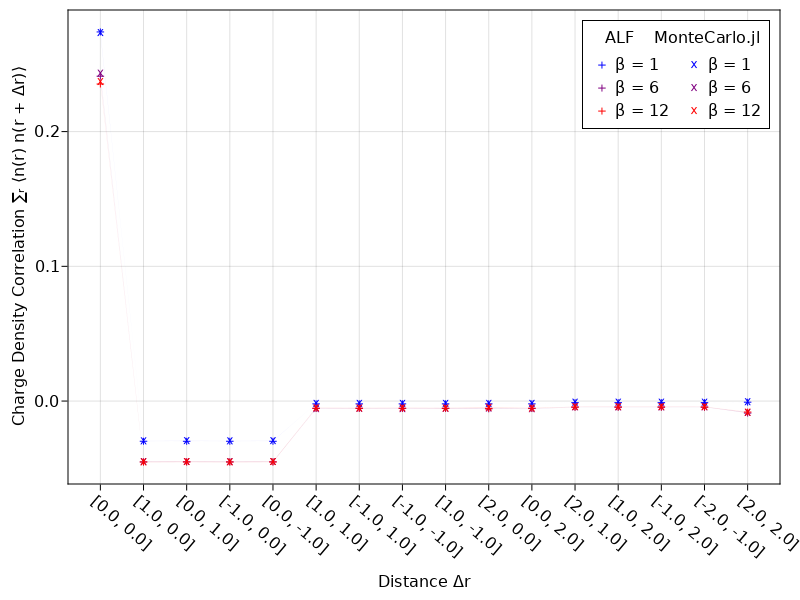
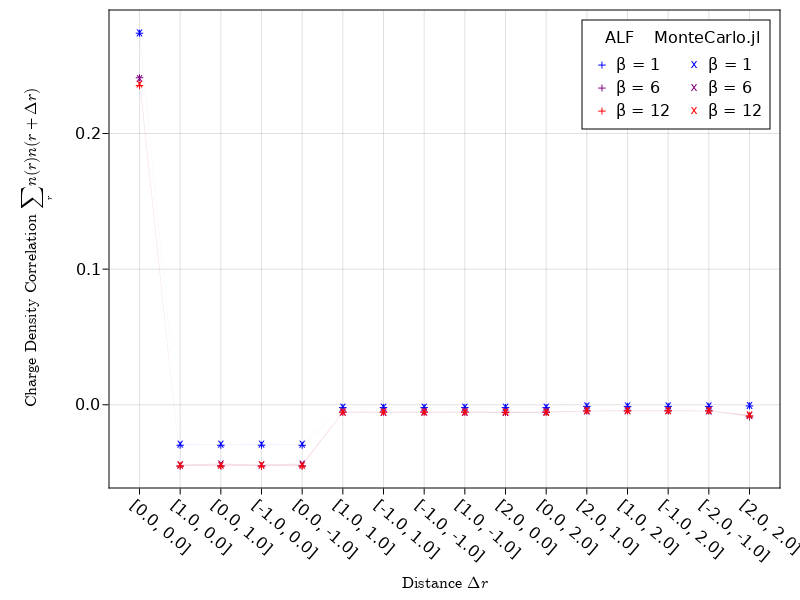
Fix ALF comparison (#151)
* fix model

* remove coment

diff --git a/docs/src/examples/ALF1.md b/docs/src/examples/ALF1.md
@@ -1,6 +1,6 @@
 # Crosscheck with ALF
 
-The [ALF project](https://git.physik.uni-wuerzburg.de/ALF) (Algorithms for lattice fermions) is a long running project implementing DQMC in Fortran. They have implemented varies different models, lattices, stabilization methods and measurements. A relatively simple comparison for us will be the "plain vanilla Hubbard model" on a square lattice, which is close to but not exactly the same as our attractive Hubbard model.
+The [ALF project](https://git.physik.uni-wuerzburg.de/ALF) (Algorithms for lattice fermions) is a long running project implementing DQMC in Fortran. They have implemented various different models, lattices, stabilization methods and measurements. A relatively simple comparison for us will be the "plain vanilla Hubbard model" on a square lattice, which is close to but not exactly the same as our repulsive Hubbard model.
 
 
 
@@ -10,7 +10,7 @@ The [ALF project](https://git.physik.uni-wuerzburg.de/ALF) (Algorithms for latti
 
 ### Installation
 
-The ALF project provides a [python interface](https://git.physik.uni-wuerzburg.de/ALF/pyALF) which we used for simplicity. For installation instructions, see the link. At the time of writing pyALF is linked to ALF 2.0.
+The ALF project provides a [python interface](https://git.physik.uni-wuerzburg.de/ALF/pyALF) which we used for simplicity. For installation instructions see the link. At the time of writing pyALF is linked to ALF 2.0. (Specifically commit 82949f66065eff8214c0149c8be2d10d6d0a6822.)
 
 !!! note 
 
@@ -67,11 +67,11 @@ for i, sim in enumerate(sims):
     sim.analysis()
 ```
 
-Let's briefly go over some of the options picked here. The noteworthy option is `Symm`. With it you can switch between a symmetric (True) and antisymmetric (False) Trotter decomposition. In MonteCarlo.jl we use the symmetric version so we should do so here too. Next we have `Ltau`. As mentioned in the comment this controls whether time displaced greens function are calculated, and by extension whether time displaced observables (susceptibilties) are calculated. We want to compare as much as possible so we set `Ltau = 1`. 
+Let's briefly go over some of the options picked here. One noteworthy option is `Symm`. With it you can switch between a symmetric (True) and antisymmetric (False) Trotter decomposition. In MonteCarlo.jl we use the symmetric version so we should do so here too. Next we have `Ltau`. As mentioned in the comment this controls whether time displaced greens function are calculated, and by extension whether time displaced observables (susceptibilties) are calculated. We want to compare as much as possible so we set `Ltau = 1`. 
 
-And finally we have the combination of `NSweep`, `N_skip` and `NBin`. `NSweep` is the number of sweeps in a block, which is usually followed by a measurement. `NBin` sets how many of those blocks are executed and `N_skip` disables measurements for some of blocks at the start. Thus we have the relations `thermalization = NSweep * N_skip`, `sweeps = NSweep * (NBin - N_skip)` and `measure_rate = NSweep`. 
+And finally we have the combination of `NSweep`, `N_skip` and `NBin`. `NSweep` is the number of sweeps in a block, which is usually followed by a measurement. `NBin` sets how many of those blocks are executed and `N_skip` disables measurements for some number of blocks at the start. Thus we have the relations `thermalization = NSweep * N_skip`, `sweeps = NSweep * (NBin - N_skip)` and `measure_rate = NSweep`. 
 
-Regarding the choices for `NSweep`, `N_skip` and `NBin` it is also important to discuss the model ALF implements and how it is implemented. As mentioned before it is not quite the same as the attractive Hubbard model from DQMC. ALF implements
+Regarding the choices for `NSweep`, `N_skip` and `NBin` it is also important to discuss the model ALF implements and how it is implemented. As mentioned before it is not quite the same as the repulsive Hubbard model from DQMC. ALF implements
 
 ```math
 \mathcal{H}=
@@ -82,9 +82,7 @@ Regarding the choices for `NSweep`, `N_skip` and `NBin` it is also important to 
 -  \mu \sum_{{i},\sigma } \hat{c}^{\dagger}_{{i}, \sigma}  \hat{c}^{\phantom\dagger}_{{i},\sigma}. 
 ```
 
-which features a quadratic interaction rather than the $\sim (n_\uparrow - 0.5)(n_\downarrow - 0.5)$ term used in MonteCarlo.jl. If we apply a Hirsch transformation (like in MonteCarlo.jl) to both of these interactions, we end up with the same expression. Thus they would be the same from the simulations point of view. However ALF uses a different, more precise transformation based on Gauß-Hermite quadrature, resulting in different auxiliary field values ($\pm 1$ and $\pm 2$ rather than just $\pm 1$) with different weights.
-
-It is not clear, a priori, whether and which observables will match. We will se in the results that many match close to perfectly but not all. Another consequence of the different transformation is that ALF is slower per sweep, but can reach a target precision at a much larger $\Delta\tau$ and potentially less sweeps. 
+which features a quadratic interaction rather than the $\sim (n_\uparrow - 0.5)(n_\downarrow - 0.5)$ term used in MonteCarlo.jl. If we apply a Hirsch transformation (like in MonteCarlo.jl) to both of these interactions, we end up with the same expression. Thus they would be the same from the simulations point of view. However ALF uses a different, (potentially) more precise transformation based on Gauß-Hermite quadrature. Thus some small differences are to be expected.
 
 For more information on the Hamiltonian and transformation used by ALF see the [ALF documentation](https://git.physik.uni-wuerzburg.de/ALF/ALF/-/blob/master/Documentation/doc.png)
 
@@ -101,49 +99,66 @@ using Revise, MonteCarlo, Printf, LinearAlgebra
 
 mcs = []
 @time for beta in [1.0, 6.0, 12.0]
-    m = HubbardModelAttractive(4, 2, U = 4, mu = 0)
+    m = HubbardModelRepulsive(4, 2, U = 4)
     mc = DQMC(
-        m, beta=beta, thermalization=10_000, sweeps=50_000, 
-        print_rate=10_000, delta_tau = 0.1#, measure_rate=5
+        m, beta=beta, thermalization=5_000, sweeps=15_000, 
+        print_rate=5_000, delta_tau = 0.05#, measure_rate=5
     )
     
     # our default versions
     mc[:G] = greens_measurement(mc, m)
-    mc[:SDCx] = spin_density_correlation(mc, m, :x)
-    mc[:SDCy] = spin_density_correlation(mc, m, :y)
     mc[:SDCz] = spin_density_correlation(mc, m, :z)
-    mc[:CDC] = charge_density_correlation(mc, m)
+    mc[:SDSz] = spin_density_susceptibility(mc, m, :z)
     mc[:T] = noninteracting_energy(mc, m)
     
     # ALF defines our I - G as the measured Greens function
-    mygreens(mc, m, ij, G) = begin i, j = ij; 2 * swapop(G)[i, j] end
-    mc[:Gr] = MonteCarlo.Measurement(mc, m, Greens, EachSitePairByDistance, mygreens)
+    function mygreens(mc, m, ij, G)
+        i, j = ij; N = length(lattice(mc))
+        swapop(G)[i, j] + swapop(G)[i+N, j+N]
+    end
+    mc[:Gr] = MonteCarlo.Measurement(mc, m, Greens, EachSitePairByDistance(), mygreens)
     
     # The interaction energy needs to be adjusted to ALF's Hamiltonian
-    my_intE(mc, m, G) = m.U * (sum(diag(G.val) - diag(G.val).^2))
-    mc[:V] = MonteCarlo.Measurement(mc, m, Greens, Nothing, my_intE)
+    function my_intE(mc, m, G)
+        E = 0.0; N = length(lattice(mc))
+        Gup, Gdown = G.val.blocks
+        for i in 1:N
+            E += (1 - Gup[i, i]) * (1 - Gdown[i, i])
+        end
+        m.U * E
+    end
+    mc[:V] = MonteCarlo.Measurement(mc, m, Greens, nothing, my_intE)
     
     # ALF includes 0 and β in the time displaced greens function
     myGk(mc, m, ij, Gs) = begin G00, G0l, Gl0, Gll = Gs; i, j = ij; Gl0[i, j] end
     mc[:IGk] = MonteCarlo.Measurement(
-        mc, m, CombinedGreensIterator, EachSitePairByDistance, myGk
+        mc, m, CombinedGreensIterator, EachSitePairByDistance(), myGk
     )
         
     # ALF subtracts the uncorrelated part
-    myDenDen(mc, m, ij, G) = begin i, j = ij; 2 * swapop(G)[i, j] * G[i, j] end
-    mc[:DenDen] = MonteCarlo.Measurement(mc, m, Greens, EachSitePairByDistance, myDenDen)
+    function myDenDen(mc, m, ij, G)
+        i, j = ij; N = length(lattice(mc))
+        swapop(G)[i, j] * G[i, j] + swapop(G)[i+N, j+N] * G[i+N, j+N]
+    end
+    mc[:DenDen] = MonteCarlo.Measurement(mc, m, Greens, EachSitePairByDistance(), myDenDen)
     
-    myDenDenTau(mc, m, ij, Gs) = begin G00, G0l, Gl0, Gll = Gs; i, j = ij; 2 * swapop(G0l)[i, j] * Gl0[i, j] end
-    mc[:DenDenTau] = MonteCarlo.Measurement(mc, m, CombinedGreensIterator, EachSitePairByDistance, myDenDenTau)
+    function myDenDenTau(mc, m, ij, Gs)
+        i, j = ij; N = length(lattice(mc))
+        G00, G0l, Gl0, Gll = Gs
+        swapop(G0l)[i, j] * Gl0[i, j] + swapop(G0l)[i+N, j+N] * Gl0[i+N, j+N]
+    end
+    mc[:DenDenTau] = MonteCarlo.Measurement(mc, m, CombinedGreensIterator, EachSitePairByDistance(), myDenDenTau)
     
     run!(mc)
     push!(mcs, mc)
 end
 ```
 
-Since MonteCarlo.jl uses a Hirsch transformation the sweeps are relatively cheap and we can easily do 10x more. With the given parameters the simulations will take about 3min.
+We run our simulations with a small $\Delta\tau$ and larger number of sweeps to reduce errors. With the given parameters the simulations will take about 6min.
 
-A lot of the observables we measure have been adjusted to match ALF. First we have the equal time Greens function `:Gr` which measures $\delta(\Delta r) - G(\Delta r) = \sum_r c_r^\dagger c_{r + \Delta r}$. We also have to add a factor 2 here because MonteCarlo.jl only keeps track of one spin. Next we have the interaction energy `:V` which needs adjustments to the different pre-transformation term. We calculate $\langle V \rangle = \frac{U}{2} \sum_i \langle V_i \rangle$ where 
+A lot of the observables we measure have been adjusted to match ALF. First we have the real space equal time Greens function `:Gr` which measures $\delta(\Delta r) - G(\Delta r) = \sum_r c_r^\dagger c_{r + \Delta r}$. The MonteCarlo.jl Greens function is given as $c c^\dagger$, so we need to swap the operators with `swapop`. We also need to explicitly sum the spin up and spin down channels.
+
+Next we have the interaction energy `:V` which needs adjustments to the different pre-transformation term. We calculate $\langle V \rangle = \frac{U}{2} \sum_i \langle V_i \rangle$ where 
 
 ```math
 \langle V_i \rangle = \langle
@@ -186,11 +201,42 @@ so it can be exchanged by Greens function elements
 \end{aligned}
 ```
 
-Next we make use of the symmetries of the model. Specifically $G_{ij}^{\uparrow\uparrow} = G_{ij}^{\downarrow\downarrow}$ and $G_{ij}^{\sigma \sigma^\prime} = 0$ if $\sigma \ne \sigma^\prime$. Thus we get
+Next we make use of the symmetries of the model. Specifically that we do not have mixed spin terms, i.e. $G_{ij}^{\sigma \sigma^\prime} = 0$ if $\sigma \ne \sigma^\prime$. We can also replace $I$ by $1$ in the remaining cases as both spin and site index are equal. We get
 
 ```math
-\langle V_i \rangle = 2 (1 - G_{ii}^{\uparrow \uparrow}) G_{ii}^{\uparrow \uparrow}
+\begin{aligned}
+\langle V_i \rangle = \phantom{-}
+  &(1 - G_{ii}^{\uparrow \uparrow}) (1 - G_{ii}^{\uparrow \uparrow})
++ (1 - G_{ii}^{\uparrow \uparrow}) G_{ii}^{\uparrow \uparrow}
+- (1 - G_{ii}^{\uparrow \uparrow}) (1 - G_{ii}^{\downarrow \downarrow}) \\
+- &(1 - G_{ii}^{\downarrow \downarrow}) (1 - G_{ii}^{\uparrow \uparrow})
++ (1 - G_{ii}^{\downarrow \downarrow}) (1 - G_{ii}^{\downarrow \downarrow})
++ (1 - G_{ii}^{\downarrow \downarrow}) G_{ii}^{\downarrow \downarrow}
+\end{aligned}
 ```
+
+which we simplify further by using $x = 1 - (1 - x)$.
+
+```math
+\begin{aligned}
+\langle V_i \rangle &= 
+(1 - G_{ii}^{\uparrow \uparrow}) + (1 - G_{ii}^{\downarrow \downarrow}) 
+- 2 (1 - G_{ii}^{\uparrow \uparrow}) (1 - G_{ii}^{\downarrow \downarrow}) \\
+&= G_{ii}^{\uparrow \uparrow} + G_{ii}^{\downarrow \downarrow}
+- 2 G_{ii}^{\uparrow \uparrow} G_{ii}^{\downarrow \downarrow}
+\end{aligned}
+```
+
+This is however not what ALF implements as the potential energy. Instead of the above, ALF uses
+
+```math
+\begin{aligned}
+\frac{1}{2} \langle V_i \rangle &= (1 - G_{ii}^{\uparrow \uparrow}) (1 - G_{ii}^{\downarrow \downarrow}) \\
+&= 1 - G_{ii}^{\uparrow \uparrow} - G_{ii}^{\downarrow \downarrow}
++ G_{ii}^{\uparrow \uparrow} G_{ii}^{\downarrow \downarrow}
+\end{aligned}
+```
+
 
 which is implemented above. After that we have the Fourier transformed time displaced Greens function `:IGk` which calculates the Fourier transform of $G^\prime(\Delta r) = \sum_{\tau = \Delta\tau}^{\beta} \Delta\tau \sum_r c_r(\tau) c_{r + \Delta r}^\dagger(0)$. Finally we have the charge density correlation `:DenDen` and susceptibility `:DenDenTau` which implement $\sum_r \langle \langle n_r n_{r - \Delta r} \rangle - \langle n_r \rangle \langle n_{r + \Delta r} \rangle \rangle_{MC}$. We note here that the subtraction happens before taking the Monte Carlo average denoted by $\langle \cdot \rangle_{MC}$.
 
@@ -490,7 +536,7 @@ display(fig)
 ### Time displaced Greens function
 
 
-For the time-displaced Greens function the overlap becomes visible less precise. This is likely a result of the different transformations used. Reducing $\Delta \tau$ in MonteCarlo.jl increases the overlap.
+For the time-displaced Greens function the overlap becomes visibly less precise. This is likely a result of the different transformations used. Reducing $\Delta \tau$ in MonteCarlo.jl decreases the error.
 
 ```
 fig, ax = plot_reciprocal(
@@ -507,17 +553,19 @@ display(fig)
 ### Energies
 
 
-For the kinetic energy and interaction we only get one value per simulation, so we just compare them numerically. In this case all values match with errors. The first group shows kinetic energy and the second interaction.
+For the kinetic energy and interaction we only get one value per simulation so we just compare them numerically. In this case all values match with errors. The first group shows kinetic energy and the second interaction.
 
 | Inv. Temp. | ALF | MonteCarlo.jl | | ALF | MonteCarlo.jl |
 | --- | --- | --- | --- | --- | --- |
-| 1  | -16.855 ± 0.005 | -16.90 ± 0.04 | | 8.775 ± 0.003 | 8.77 ± 0.02 |
-| 6  | -21.107 ± 0.002 | -21.06 ± 0.06 | | 7.72 ± 0.02   | 7.72 ± 0.04 |
-| 12 | -21.109 ± 0.002 | -21.09 ± 0.05 | | 7.538 ± 0.006 | 7.51 ± 0.06 |
+| 1  | -16.855 ± 0.005 | -16.83 ± 0.07 | | 8.775 ± 0.003 | 8.75 ± 0.03 |
+| 6  | -21.107 ± 0.002 | -21.00 ± 0.08 | | 7.72  ± 0.02  | 7.64 ± 0.09 |
+| 12 | -21.109 ± 0.002 | -21.12 ± 0.09 | | 7.538 ± 0.006 | 7.54 ± 0.05 |
 
 
 ### Charge Density Correlations
 
+
+Like the equal time Greens function the charge density matches close to exactly.
 
 ```julia
 fig, ax = plot_by_distance(CDCs, dCDCs, :DenDen, ylabel = "Charge Density Correlation ∑ᵣ ⟨n(r) n(r + Δr)⟩")
@@ -531,7 +579,7 @@ display(fig)
 ### Charge Density Susceptibility
 
 
-Even though this is based on the time displaced Greens function the results do actually match pretty closely.
+The charge susceptibility shows some larger errors but still matches fairly well. The errors we see here are generally smaller than what we saw in the integrated Greens function.
 
 ```julia
 fig, ax = plot_reciprocal(
@@ -548,7 +596,7 @@ display(fig)
 ### Spin Density Correlation
 
 
-Spin Density correlations (and susceptibilities) are the observables that do not match at all between MonteCarlo.jl and ALF. 
+Like the other equal time correlations spin density also fits almost exactly.
 
 ```julia
 fig, ax = plot_by_distance(SDCzs, dSDCzs, :SDCz, ylabel = "Spin Density Correlation ∑ᵣ ⟨s_z(r) s_z(r + Δr)⟩")
@@ -557,3 +605,21 @@ display(fig)
 ```
 
 ![](assets/ALF/spin_density_correlation.png)
+
+
+### Spin Density Susceptibility
+
+
+Like the other susceptibilities, this shows some larger deviations than its equal time variant but no qualitative difference from ALF.
+
+```julia
+lbl = L"Spin Density Susceptibility $\sum_{r, r^\prime} \int_0^\beta s_z(\tau, r) s_z(0, r^\prime) e^{i \Delta k (r^\prime - r)} d\tau$"
+fig, ax = plot_reciprocal(
+    SDSzs, dSDSzs, :SDSz, legend_pos = :lt,
+    ylabel = lbl
+)
+Makie.save("spin_density_susceptibility.png", fig)
+display(fig)
+```
+
+![](assets/ALF/spin_density_susceptibility.png)
